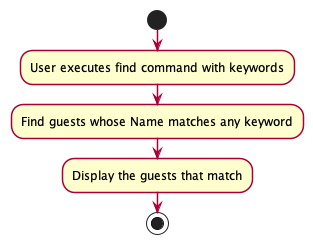
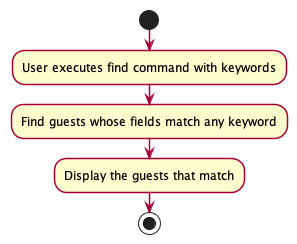
Update user and developer guide to reflect our current implementations
Added implementation of improved `find` command
Added How to use User Guide in User Guide
Fix styling issues

diff --git a/docs/DeveloperGuide.md b/docs/DeveloperGuide.md
@@ -5,27 +5,7 @@ title: Developer Guide
 
 ---
 * Table of Contents
-  * Acknowledgements
-  * Setting up, getting started
-  * Design
-    * Architecture
-    * UI component
-    * Logic component
-    * Model component
-    * Storage component
-    * Common classes
-  * Implementation
-  * Documentation, logging, testing, configuration, dev-ops
-  * Appendix: Requirements
-    * Product scope
-    * User stories
-    * Use cases
-    * Non-Functional Requirements
-    * Glossary
-  * Appendix: Instructions for manual testing
-    * Launch and shutdown
-    * Deleting a guest
-    * Saving data
+{:toc}
 
 
 --------------------------------------------------------------------------------------------------------------------
@@ -147,7 +127,7 @@ How the parsing works:
 
 The `Model` component,
 
-* stores the guest book data i.e., all `Guest` objects (which are contained in a `UniqueGuestBook` object).
+* stores the GuestBook data i.e., all `Guest` objects (which are contained in a `UniqueGuestBook` object).
 * stores the currently 'selected' `Guest` objects (e.g., results of a search query) as a separate _filtered_ list which is exposed to outsiders as an unmodifiable `ObservableList<Guest>` that can be 'observed' e.g. the UI can be bound to this list so that the UI automatically updates when the data in the list change.
 * stores a `UserPref` object that represents the user’s preferences. This is exposed to the outside as a `ReadOnlyUserPref` objects.
 * does not depend on any of the other three components (as the `Model` represents data entities of the domain, they should make sense on their own without depending on other components)
@@ -160,7 +140,7 @@ The `Model` component,
 <img src="images/StorageClassDiagram.png" width="550" />
 
 The `Storage` component,
-* can save both guest book data and user preference data in json format, and read them back into corresponding objects.
+* can save both GuestBook data and user preference data in json format, and read them back into corresponding objects.
 * inherits from both `GuestBookStorage` and `UserPrefStorage`, which means it can be treated as either one (if only the functionality of only one is needed).
 * depends on some classes in the `Model` component (because the `Storage` component's job is to save/retrieve objects that belong to the `Model`)
 
@@ -303,7 +283,7 @@ and that minimal calculation is needed to reset the bill to 0 (`b/-CURRENT_VALUE
 ### MarkRoomsUnclean Command
 
 #### Implementation
-* The `markRoomsUnclean` command edits all the guests in the guest book and changes their isRoomClean statuses to "no". It takes in no additional inputs or fields.
+* The `markRoomsUnclean` command edits all the guests in GuestBook and changes their isRoomClean statuses to "no". It takes in no additional inputs or fields.
 
 The following activity diagram summarizes what happens when a user enters a `markRoomsUnclean` command.
 
@@ -314,7 +294,7 @@ The following activity diagram summarizes what happens when a user enters a `mar
 * Alternative 1: Allow `markRoomsUnclean` command to operate only on the last shown list instead of the entire list. This is to Standardise how edits are made across the commands (e.g. edit and delete).
   * Pros: This might be more intuitive for users, as `edit` and `delete` commands work only on the last shown lists.
   * Cons: User is unable to change all the guests' isRoomClean statuses in a single command.
-* Alternative 2 (current choice): Allow `markRoomsUnclean` command to change all guests' isRoomClean statuses in the guest book instead of the last shown list.
+* Alternative 2 (current choice): Allow `markRoomsUnclean` command to change all guests' isRoomClean statuses in GuestBook instead of the last shown list.
   * Pros: User is able to change all the guests' isRoomClean statuses in a single command.
   * Cons: There is less flexibility in marking groups of guests' room as unclean.
 
@@ -323,7 +303,7 @@ Taking into consideration the context of GuestBook that operates for small hotel
 ### Find Command
 
 #### Implementation:
-* The `find` command takes in multiple keywords separated by spaces, and find all guests whose `Name` contain any of the keywords. The keywords are case-insensitive as well. As such, entering 'Alice' is the same as entering 'aLiCE'.
+* The `find` command takes in multiple keywords separated by spaces, and find all guests whose `fields` contain any of the keywords. The keywords are case-insensitive as well. As such, entering 'Alice' is the same as entering 'aLiCE'.
 
 The following activity diagram summarizes what happens when a user enters a `find` command.
 
@@ -331,34 +311,11 @@ The following activity diagram summarizes what happens when a user enters a `fin
 
 #### Design Considerations:
 
-**Aspect: Allowing searching only through `Name` field**
-* As the hotel manager would usually search by the Guest's name, it would be appropriate enough to search by the Guest's name. However, we do not rule out the possibility that the hotel manager might want to search by other fields as well. Hence, there could be another implementation, further elaborated on in the `Proposed` section below.
+**Aspect: Allowing searching only through all fields**
+* As the hotel manager would usually appreciate the ability to search by other fields such as by Room, it is appropriate to make the `find` command to scan through all the fields of the guests.
 
 **Aspect: Only matching full keywords**
 * The `find` command only matches full keywords. For example, typing in 'ali' would not match a Guest named 'Alice'. As we do not want to display possible redundant data to the hotel manager, we decided to limit the `find` command to only full keywords, so that the results displayed are more targeted.
-
-### \[Proposed\] Improved `find` Command
-
-#### Proposed Implementation
-
-The current `find` command enables the hotel manager to only search by the `Name` field. However, it is possible that the hotel manager might want to search by other fields as well, such as `Room`.
-Hence, we should make the `find` functionality extensible enough to search by other fields.
-
-The following activity diagram summarizes the proposed implementation of what should happen when a user enters a `find` command.
-
-![ProposedImplementationFindActivityDiagram](images/ProposedImplementationFindActivityDiagram.png)
-
-#### Design Considerations:
-
-**Aspect: How to implement the extensible `find` command:**
-
-* **Alternative 1:** Use the functionality to find `Name` for other fields .
-    * Pros: Easy to implement.
-    * Cons: May lead to bugs as `Name` fields only accept alphanumeric characters, while other fields can accept other symbols.
-
-* **Alternative 2 (current choice):** Create the functionality for matching keywords for each field.
-    * Pros: Will be more accurate.
-    * Cons: We must ensure that the implementation of each field predicate are correct.
 
 
 ### \[Proposed\] Undo/Redo Command
@@ -367,31 +324,31 @@ The following activity diagram summarizes the proposed implementation of what sh
 
 The proposed undo/redo mechanism is facilitated by `VersionedGuestBook`. It extends `GuestBook` with an undo/redo history, stored internally as an `guestBookStateList` and `currentStatePointer`. Additionally, it implements the following operations:
 
-* `VersionedGuestBook#commit()` — Saves the current guest book state in its history.
-* `VersionedGuestBook#undo()` — Restores the previous guest book state from its history.
-* `VersionedGuestBook#redo()` — Restores a previously undone guest book state from its history.
+* `VersionedGuestBook#commit()` — Saves the current GuestBook state in its history.
+* `VersionedGuestBook#undo()` — Restores the previous GuestBook state from its history.
+* `VersionedGuestBook#redo()` — Restores a previously undone GuestBook state from its history.
 
 These operations are exposed in the `Model` interface as `Model#commitGuestBook()`, `Model#undoGuestBook()` and `Model#redoGuestBook()` respectively.
 
 Given below is an example usage scenario and how the undo/redo mechanism behaves at each step.
 
-Step 1. The user launches the application for the first time. The `VersionedGuestBook` will be initialized with the initial guest book state, and the `currentStatePointer` pointing to that single guest book state.
+Step 1. The user launches the application for the first time. The `VersionedGuestBook` will be initialized with the initial GuestBook state, and the `currentStatePointer` pointing to that single GuestBook state.
 
 ![UndoRedoState0](images/UndoRedoState0.png)
 
-Step 2. The user executes `delete 5` command to delete the 5th guest in the guest book. The `delete` command calls `Model#commitGuestBook()`, causing the modified state of the guest book after the `delete 5` command executes to be saved in the `guestBookStateList`, and the `currentStatePointer` is shifted to the newly inserted guest book state.
+Step 2. The user executes `delete 5` command to delete the 5th guest in GuestBook. The `delete` command calls `Model#commitGuestBook()`, causing the modified state of GuestBook after the `delete 5` command executes to be saved in the `guestBookStateList`, and the `currentStatePointer` is shifted to the newly inserted GuestBook state.
 
 ![UndoRedoState1](images/UndoRedoState1.png)
 
-Step 3. The user executes `add n/David …` to add a new guest. The `add` command also calls `Model#commitGuestBook()`, causing another modified guest book state to be saved into the `guestBookStateList`.
+Step 3. The user executes `add n/David …` to add a new guest. The `add` command also calls `Model#commitGuestBook()`, causing another modified GuestBook state to be saved into the `guestBookStateList`.
 
 ![UndoRedoState2](images/UndoRedoState2.png)
 
-<div markdown="span" class="alert alert-info">:information_source: **Note:** If a command fails its execution, it will not call `Model#commitGuestBook()`, so the guest book state will not be saved into the `guestBookStateList`.
+<div markdown="span" class="alert alert-info">:information_source: **Note:** If a command fails its execution, it will not call `Model#commitGuestBook()`, so the GuestBook state will not be saved into the `guestBookStateList`.
 
 </div>
 
-Step 4. The user now decides that adding the guest was a mistake, and decides to undo that action by executing the `undo` command. The `undo` command will call `Model#undoGuestBook()`, which will shift the `currentStatePointer` once to the left, pointing it to the previous guest book state, and restores the guest book to that state.
+Step 4. The user now decides that adding the guest was a mistake, and decides to undo that action by executing the `undo` command. The `undo` command will call `Model#undoGuestBook()`, which will shift the `currentStatePointer` once to the left, pointing it to the previous GuestBook state, and restores the GuestBook to that state.
 
 ![UndoRedoState3](images/UndoRedoState3.png)
 
@@ -408,17 +365,17 @@ The following sequence diagram shows how the undo operation works:
 
 </div>
 
-The `redo` command does the opposite — it calls `Model#redoGuestBook()`, which shifts the `currentStatePointer` once to the right, pointing to the previously undone state, and restores the guest book to that state.
+The `redo` command does the opposite — it calls `Model#redoGuestBook()`, which shifts the `currentStatePointer` once to the right, pointing to the previously undone state, and restores GuestBook to that state.
 
-<div markdown="span" class="alert alert-info">:information_source: **Note:** If the `currentStatePointer` is at index `guestBookStateList.size() - 1`, pointing to the latest guest book state, then there are no undone GuestBook states to restore. The `redo` command uses `Model#canRedoGuestBook()` to check if this is the case. If so, it will return an error to the user rather than attempting to perform the redo.
+<div markdown="span" class="alert alert-info">:information_source: **Note:** If the `currentStatePointer` is at index `guestBookStateList.size() - 1`, pointing to the latest GuestBook state, then there are no undone GuestBook states to restore. The `redo` command uses `Model#canRedoGuestBook()` to check if this is the case. If so, it will return an error to the user rather than attempting to perform the redo.
 
 </div>
 
-Step 5. The user then decides to execute the command `list`. Commands that do not modify the guest book, such as `list`, will usually not call `Model#commitGuestBook()`, `Model#undoGuestBook()` or `Model#redoGuestBook()`. Thus, the `guestBookStateList` remains unchanged.
+Step 5. The user then decides to execute the command `list`. Commands that do not modify GuestBook, such as `list`, will usually not call `Model#commitGuestBook()`, `Model#undoGuestBook()` or `Model#redoGuestBook()`. Thus, the `guestBookStateList` remains unchanged.
 
 ![UndoRedoState4](images/UndoRedoState4.png)
 
-Step 6. The user executes `clear`, which calls `Model#commitGuestBook()`. Since the `currentStatePointer` is not pointing at the end of the `guestBookStateList`, all guest book states after the `currentStatePointer` will be purged. Reason: It no longer makes sense to redo the `add n/David …` command. This is the behavior that most modern desktop applications follow.
+Step 6. The user executes `clear`, which calls `Model#commitGuestBook()`. Since the `currentStatePointer` is not pointing at the end of the `guestBookStateList`, all GuestBook states after the `currentStatePointer` will be purged. Reason: It no longer makes sense to redo the `add n/David …` command. This is the behavior that most modern desktop applications follow.
 
 ![UndoRedoState5](images/UndoRedoState5.png)
 
@@ -430,7 +387,7 @@ The following activity diagram summarizes what happens when a user executes a ne
 
 **Aspect: How undo & redo executes:**
 
-* **Alternative 1 (current choice):** Saves the entire guest book.
+* **Alternative 1 (current choice):** Saves the entire GuestBook.
   * Pros: Easy to implement.
   * Cons: May have performance issues in terms of memory usage.
 
@@ -736,7 +693,7 @@ testers are expected to do more *exploratory* testing.
 1. Adding a guest
 
    1. Prerequisites: Only one guest to be added.
-      The name of the guest to be added should not exist in the guest book.
+      The name of the guest to be added should not exist in GuestBook.
    The format and data of the command should be valid.
 
    2. Test case: `add n/John Doe p/98765432 e/johnd@example.com rm/05-73
@@ -746,7 +703,7 @@ testers are expected to do more *exploratory* testing.
    3. Test case: `add n/John Doe p/98765431 e/johnd@nus.com rm/06-73
                   dr/13/09/22 - 15/09/23 ng/1 rq/Kill the insect `<br>
       Expected: No guest is added,
-      because the name is already in the guest book. Error details shown in the status message.
+      because the name is already in GuestBook. Error details shown in the status message.
          Status bar remains the same.
 
    4. Test case: `add n/John@y Doe p/98765431 e/johnd@nus.com rm/06-73
@@ -796,7 +753,7 @@ testers are expected to do more *exploratory* testing.
 1. Editing a guest
    
    1. Prerequisite: Only 1 guest to be edited; the guest's index should exist.
-   The guest should exist in the guest book.
+   The guest should exist in GuestBook.
    The format and content of the command should be valid.
 
    2. Test case: `edit 1 n/Johnny`<br>

diff --git a/docs/UserGuide.md b/docs/UserGuide.md
@@ -13,6 +13,14 @@ guest management tasks done faster than traditional GUI apps.
 {:toc}
 
 --------------------------------------------------------------------------------------------------------------------
+## How to use the User Guide
+* For a quick and easy way to get started with GuestBook, you can visit the [Quick Start](#quick-start) section.
+* To understand the terms we use in GuestBook, you can visit the [Glossary](#glossary) section.
+* To see the amazing features that GuestBook provides and how to use them, you can visit the [Features](#features) section.
+* Having issues? You can check out the [FAQ](#faq) section to see find solutions to your issues.
+* Have a question for us? Feel free to [contact us](#contact-us) and we will do our best to assist you.
+
+--------------------------------------------------------------------------------------------------------------------
 
 ## Components of the UI
 
@@ -39,7 +47,7 @@ guest management tasks done faster than traditional GUI apps.
 1. Type the command in the command box and press Enter to execute it. e.g. typing **`help`** and pressing Enter will open the help window.<br>
    Some example commands you can try:
 
-   * **`add`**`n/John Doe p/98765432 e/johnd@example.com rm/05-73 dr/13/09/22 - 15/09/22 ng/3 rq/Extra towels`: Adds a guest named `John Doe` to the guest book.
+   * **`add`**`n/John Doe p/98765432 e/johnd@example.com rm/05-73 dr/13/09/22 - 15/09/22 ng/3 rq/Extra towels`: Adds a guest named `John Doe` to GuestBook.
 
    * **`edit`** `1` `n/Bob rc/no rq/Room Service`: Edits the first guest shown in the current list.
 
@@ -66,11 +74,11 @@ guest management tasks done faster than traditional GUI apps.
 | **Alphanumeric** | `Refers to characters that are numbers 0-9 and alphabets A-Z, both uppercase and lowercase.`                                                          |
 | **dd/MM/yy**     | `Refers to the date format, where dd stands for 2 digit days, 2 digit months and the last 2 digits for the year and they must be separated by a "/".` |
 | **CLI**          | `Stands for Command Line Interface, it refers to a text-based interface used to execute opertaions of the system.`                                    |
-| **Guest**        | `A guest staying at the hotel`                                                                                                                        |
+| **Guest**        | `A guest staying at the hotel.`                                                                                                                       |
 | **GUI**          | `Stands for Graphical User Interface, it refers to an interface that allows users to interact with the system through friendly visuals.`              |
 | **Hard disk**    | `A data storage device used to store and retrieve data.`                                                                                              |
 | **Index**        | `The number that corresponds to the position of the Guest in the list.`                                                                               |
-| **Java**         | `A programming language used to run Guest Book.`                                                                                                      |
+| **Java**         | `A programming language used to run GuestBook.`                                                                                                       |
 | **JSON file**    | `Stands for JavaScript Object Notation, it refers to a file format to store data.`                                                                    |
 
 --------------------------------------------------------------------------------------------------------------------
@@ -118,7 +126,7 @@ Format: `help`
 
 ### Adding a guest : `add`
 
-This command adds a guest to the guest book. This is akin to checking in a guest with their personal 
+This command adds a guest to GuestBook. This is akin to checking in a guest with their personal 
 and room details.
 
 Format: `add n/NAME p/PHONE e/EMAIL rm/ROOM dr/DATE_RANGE ng/NUMBER_OF_GUESTS [rq/REQUEST]`
@@ -132,7 +140,7 @@ Constraints of parameters:
 * `ROOM` should only contain alphanumeric characters and a hyphen.
 * `DATE_RANGE` should follow the format dd/MM/yy - dd/MM/yy.
 * `NUMBER_OF_GUESTS` should only contain numbers, and it should be at least 1 and at most 4.
-* `REQUEST` is an optional field and it should be at most 500 characters long.
+* `REQUEST` is an optional field, and it should be at most 500 characters long.
 
 Examples:
 * `add n/John Doe p/98765432 e/johnd@example.com rm/05-73 dr/19/05/22 - 24/05/22 ng/3`
@@ -140,13 +148,13 @@ Examples:
 
 ### Listing all guests : `list`
 
-This command displays a list of all guests in the guest book.
+This command displays a list of all guests in GuestBook.
 
 Format: `list`
 
 ### Editing a guest : `edit`
 
-This command edits an existing guest in the guest book.
+This command edits an existing guest in GuestBook.
 
 Format: `edit INDEX [n/NAME] [p/PHONE] [e/EMAIL] [rm/ROOM] [dr/DATE_RANGE] [ng/NUMBER_OF_GUESTS] [rc/IS_ROOM_CLEAN] [rq/REQUEST]`
 
@@ -160,7 +168,7 @@ Examples:
 
 ### Billing a guest : `bill`
 
-This command updates the bill of a guest in the guest book.
+This command updates the bill of a guest in GuestBook.
 
 Format: `bill INDEX b/BILL`
 
@@ -170,15 +178,15 @@ Format: `bill INDEX b/BILL`
 
 * The existing bill value will be increased by the input value.
 
-* The bill value **must be either an integer or a double with up to 2 decimal places**
+* The bill value **must be either an integer or a double with up to 2 decimal places.**
 
 Examples:
 * `bill 1 b/+99.99` or `bill 1 b/99.99` Adds 99.99 to the bill of the 1st guest.
 * `bill 2 n/-10` Subtracts 10 from the bill of the 2nd guest.
 
 Common mistakes:
-* Missing out the b/ prefix in the bill command
-* Editing the bill using the edit command instead of the bill command
+* Missing out the b/ prefix in the bill command.
+* Editing the bill using the edit command instead of the bill command.
 
 ### Locating guests : `find`
 
@@ -203,7 +211,7 @@ Examples:
 
 ### Deleting a guest : `delete`
 
-This command deletes the specified guest from the guest book. 
+This command deletes the specified guest from GuestBook. 
 
 This command is typically used when a guest has checked out of the hotel. Do note that this command 
 is irreversible. Once deleted, the specific guest's data cannot be retrieved. Please use this 
@@ -215,7 +223,7 @@ Format: `delete INDEX`
 * The index **must be a positive integer** 1, 2, 3, …
 
 Examples:
-* `list` followed by `delete 2` deletes the 2nd guest in the guest book.
+* `list` followed by `delete 2` deletes the 2nd guest in GuestBook.
 
 * `find Betsy` followed by `delete 1` deletes the 1st guest in the results of the `find` command.
 
@@ -235,9 +243,9 @@ Common mistakes:
 
 ### Clearing all entries : `clear`
 
-This command clears all entries from the guest book. 
+This command clears all entries from GuestBook. 
 
-This command is typically used as a hard reset of the entire guest book. Do note that this command 
+This command is typically used as a hard reset of GuestBook. Do note that this command 
 is irreversible. Once cleared, all the guest data cannot be retrieved. Please use this command 
 with utmost caution.
 
@@ -260,10 +268,6 @@ GuestBook data are saved as a JSON file `[JAR file location]/data/guestbook.json
 <div markdown="span" class="alert alert-warning">:exclamation: **Caution:**
 If your changes to the data file makes its format invalid, GuestBook will discard all data and start with an empty data file at the next run.
 </div>
-
-### Archiving data files `[coming in v2.0]`
-
-_Details coming soon ..._
 
 --------------------------------------------------------------------------------------------------------------------
 
